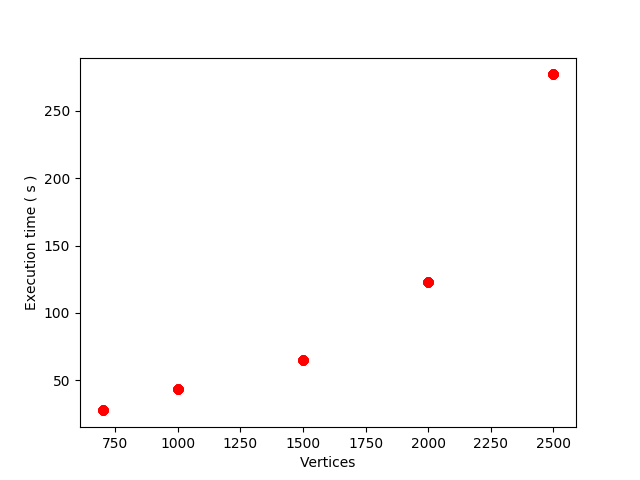
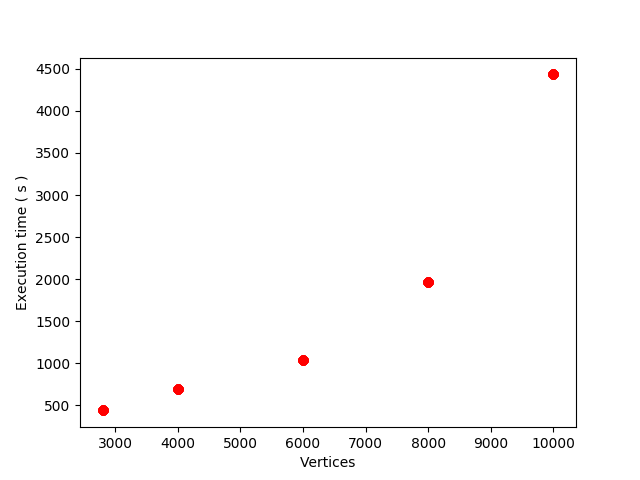
Minor fixes. Modified report.

diff --git a/plot.py b/plot.py
@@ -4,8 +4,8 @@ import sys
 Utility script to plot Execution time Vs Number of vertices based on the log-files obtained by running tests/*.sh
 """
 lines = open(sys.argv[1]).readlines()[1::2]
-# x = map(lambda xx: eval(xx.strip().split('\t')[1].split(' ')[1]), lines[::2])
-x = map(lambda xx: 100*eval(xx.strip().split(' ')[1].split('\t')[0]), lines[::2])
+x = map(lambda xx: 5*eval(xx.strip().split('\t')[1].split(' ')[1]), lines[::2])
+# x = map(lambda xx: 400*eval(xx.strip().split(' ')[1].split('\t')[0]), lines[::2])
 y = map(lambda xx: eval(xx.split(' ')[2]), lines[1::2])
 t = {}
 c = {}
@@ -19,14 +19,14 @@ for i in range(len(y)):
 y_plot = []
 for i in range(len(y)):
     xx = x[i]
-    # y_plot.append(t[xx]*0.0001/c[xx])
-    y_plot.append(t[xx]*14.711*0.6*0.5*10/c[xx])
+    y_plot.append(t[xx]*0.0001*25/c[xx])
+    # y_plot.append(t[xx]*14.711*0.6*0.5*10*16/c[xx])
 
 # print t[700]*10.0/c[700]
 # print y_plot
 
-# plt.xlabel("Edges | Number of vertices = 1000")
-plt.xlabel("Vertices")
+plt.xlabel("Edges | Number of vertices = 5000")
+# plt.xlabel("Vertices")
 plt.ylabel("Execution time ( s )")
 
 plt.plot(x,y_plot,'ro')
